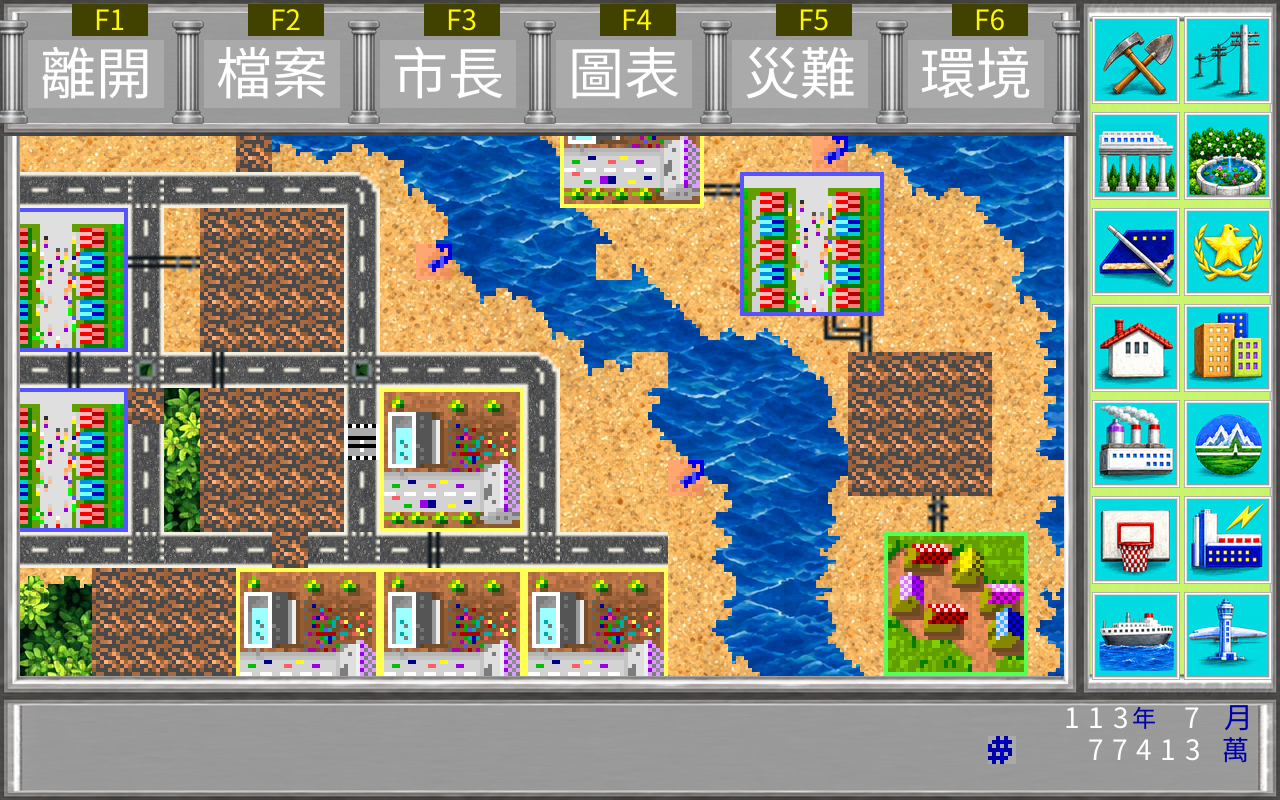
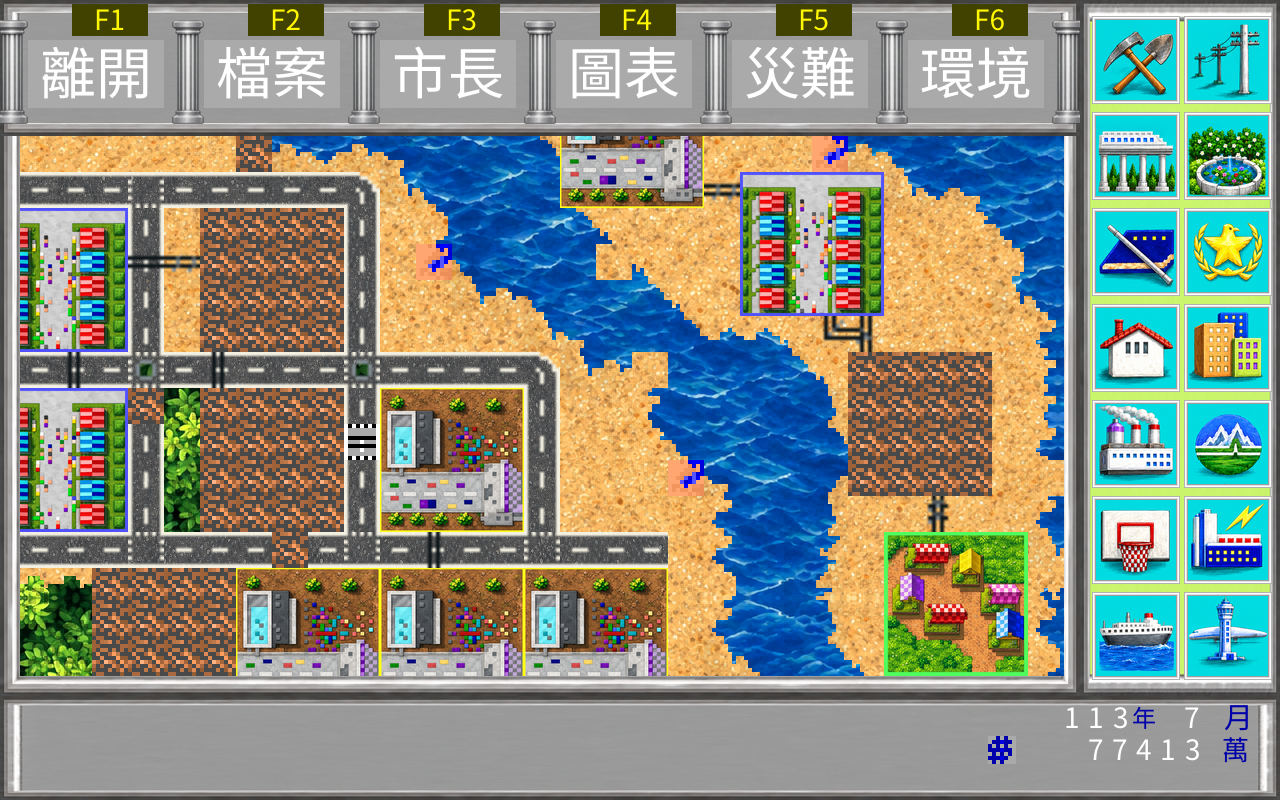
更新建物原版與 HD 五語系截圖及驗收現況 #56

diff --git a/WORKLOG.md b/WORKLOG.md
@@ -817,3 +817,13 @@ Docker 內完成 Python 語法、五份 Markdown 相對連結、29 個唯一 REA
 Docker 內 `python3 /workspace/tools/disaster_building_check.py --run /workspace/runs/gui-buildings-r1 --out /workspace/runs/gui-buildings-r1/pixel-verification.json` 通過六張各 1,024,000 像素整幀及六項正反對照。期望值來自 READY 前固定原型、原 ROM／原版畫面、#54 固定前件與已固定 Noto 文字矩形，不匯入產品呈現器；原版 F12 全畫面核對四倍原色。報告 SHA-256 01507a06ce27cb573b23d4f33682a1c9e42b3fe7062316dfe47e1a78b2bfcc78。
 
 Linux 新 binary 為 taipei-preview-buildings-r1，SHA-256 5933a1f2554ee51419eae97493708cb99b2de8da726011e7887c06d5c9c348c3。先保留舊四架構產品於 runs/buildings-baseline-v1，再由既有 Windows／macOS image 重新編譯；三個外平台架構完成，Windows 留有先前已知 YMFM 警告。跨平台工具加 project=taipei 容器標籤以便清理，沒有新建 image。034 限本批及已驗遊玩路徑 CONFORMED，README 截圖與現況收尾接續下筆紀錄；全部 HD、其他相位、全新 EXE 冷讀、平台真機及正式封包仍未完成。
+
+### #56 截圖與交接收尾
+
+產品與工具已先提交 ad8d6f9cb1450a4c516add1192cafc43c9f0d2ed，使截圖可回查確實包含新呈現程式的來源。正常 GUI 與六張圖已完成後，執行 Docker 內 `python3 /workspace/tools/export_building_screenshots.py --run /workspace/runs/gui-buildings-r1 --manifest /workspace/screenshots/manifest.json --source-commit ad8d6f9cb1450a4c516add1192cafc43c9f0d2ed`。沿用固定 image、90 秒上限、network none、UID/GID 1000、1g／1 CPU／64 pids，只有 screenshots 可寫，其餘 workspace 與原版唯讀。
+
+匯出前再核對正常完成報告、原子 ZIP、PNG 與完整獨立像素。依使用者持續要求更新 README 畫面，更新既有 DISA1 繁中圖並補原版／其他四語系，六張共 6,542,163 bytes；先前繁中圖片來源記錄保留於 manifest 的 replaced_screenshot，不改寫原始收據。README 現有 34 張唯一 PNG，共 19,900,278 bytes，全部 1280×800、1000:1000。來源清單 SHA-256 9e87c93d335487df029faf229a5331ac1d940b5395780d00782d1c0393c88d44。新六張皆已實際檢視，完整畫面與五語系字墨一致。
+
+正常 GUI 通過後才將已驗 Linux 研究產品複製到標準入口 taipei-preview。先核對四個前版保存副本與既有 provenance 相同；新四架構 ELF／PE／Mach-O、所有已記錄程式來源、正常及呈現報告雜湊另存 workspace/runs/buildings-final-provenance.json。35 個原始檔及 RAR 仍與原盤點一致。Windows／macOS 本次只有編譯與架構驗證，沒有真機或正式封包聲明。
+
+收尾回查 README 與文件職責路由，更新唯一現況表、驗收矩陣及 README 功能摘要。34 個唯一圖片參照與 manifest 集合、全部 PNG 雜湊／尺寸／擁有權、五份 Markdown 連結、工具語法與雜湊、034 索引及 029 正對照通過；git diff --check 通過。指定 find 為空，專案相關容器均已清理，沒有新 image、背景程序或全域清理。只明列提交文件、來源清單及指定六張 PNG；兩筆提交推送後回寫 #56 並核對結案，#30 保持 OPEN。其餘建物／動畫、未走過相位、全新 EXE 冷讀與三平台正式封包仍待接續。

diff --git a/docs/verification-matrix.md b/docs/verification-matrix.md
@@ -21,6 +21,7 @@
 | 全部地圖 | [#30](https://github.com/wicanr2/taipei/issues/30) | 地景、道路、電線、建物、設施與災害的來源、遮擋及相位 | 未接入或未知回退仍列未完成 |
 | 道路與電線 | [#44](https://github.com/wicanr2/taipei/issues/44) | 完整來源、別名、固定整格、資源故障、有效負對照；正常施工／F12／雙向捲動／存退讀及原版狀態 | [026](spec/026-infrastructure-tiles.md) 限第一批 25 張 CONFORMED；105 正常收據、九格同世界像素、五項有效呈現破壞及 206 點原版狀態通過。其餘 18 張 DRAFT，完整批次及交付仍未完成 |
 | 火力電廠 | [#46](https://github.com/wicanr2/taipei/issues/46) | 完整 36 格來源／重組、回退、實際素材故障、有效負對照；正常施工／F12／雙向捲動／存退讀及兩次退出 | [027](spec/027-power-facility.md) 限已見靜態來源 CONFORMED；162 正常收據、36 格同世界來源、五項有效破壞及 336 點原版狀態與實際 SAV 相同。核能及其他相位 DRAFT，全部 HD／封包未完成 |
+| DISA1 首批建物 | [#56](https://github.com/wicanr2/taipei/issues/56) | 三種完整正常來源、48 格 B 重繪、色盤與資源回退、正常入口／F11／F12／存讀檔／退出 | [034](spec/034-disaster-city-buildings.md) 限本批及已驗路徑 CONFORMED；116 格正常繪製、六張完整畫面、六項正反對照、3888 項來源失配、八項真實資源故障、十一項既有回歸與四架構通過。三圖及 manifest 四檔乾淨重生相同；其他建物／相位、全新 EXE 冷讀、真機及正式封包未驗 |
 | 全部文字與視窗 | [#31](https://github.com/wicanr2/taipei/issues/31) | 原始文字來源、完整字串、實際 Noto 墨跡、安全矩形與正常 GUI | 字模候選不直接作正式覆字規則 |
 | 介面五語系 | [#51](https://github.com/wicanr2/taipei/issues/51)、[#52](https://github.com/wicanr2/taipei/issues/52)、[#49](https://github.com/wicanr2/taipei/issues/49) | 五語系完整文字鍵、實際字形與安全矩形、來源覆蓋、數值／檔名隔離、正常 F11／F12、缺譯警示與存讀檔／退出 | [032](spec/032-interface-localization.md)、[033](spec/033-localization-source-coverage.md) 限已盤點來源及必要短流程 CONFORMED；225 鍵、1213 字元、146 筆中文對應、各語系 77 種介面狀態及 192 個原版文字階段、九筆圖片通過。成功結局完整流程、密碼分支、未知用途、平台真機與正式包的限制見 033 |
 | README 原版與五語系截圖 | [#53](https://github.com/wicanr2/taipei/issues/53) | 現行前端正常冷啟動，原版城市／預算及 HD 五語系、Help 五語系；PNG／原始收據雜湊、尺寸、字形、連結、來源色號與可見 RGB、原始預算數值及正常退出 | [17 張截圖來源](../workspace/screenshots/manifest.json)與 `readme-screenshots-r4/verification.json` 通過。每語系從正常選單重開預算；各組完整原版畫面及可見顏色一致。CPU／時鐘及未使用色盤不要求相同，無長時間抽樣、完整 HD、平台真機或封包驗收聲明 |
